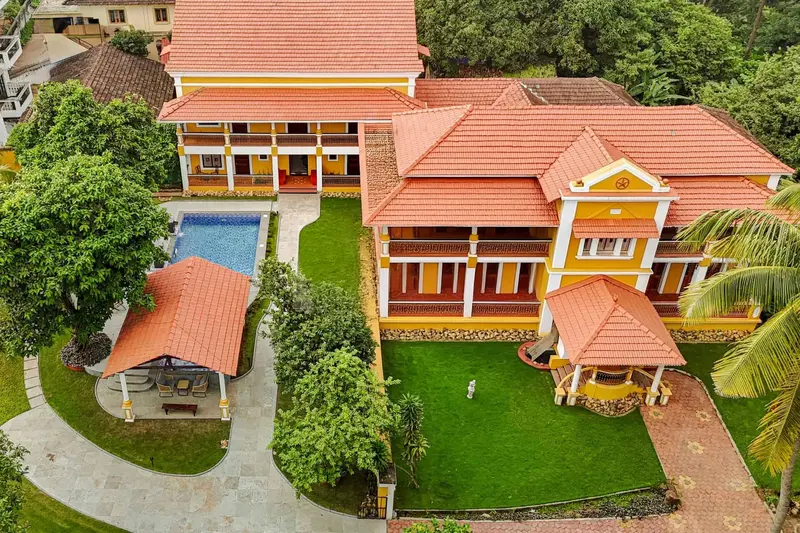
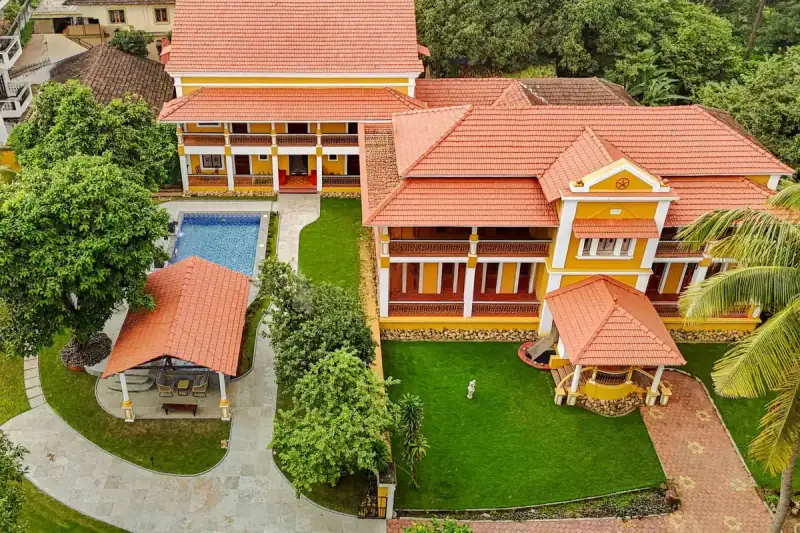
perf: lighter homepage hero and real slideshow photos
- Slides 2–3 pointed at image keys that don't exist, so both showed the
  generic 160 KB hero-goa.jpg. They now use The Plix Resort and Villa
  Madera lead photos with their 800px phone copies.
- Those slide photos are added only after the page's load event, so they
  no longer compete with the LCP image on slow connections.
- Phone hero (vivendachico1-mobile) re-encoded from the 1200px source:
  119 KB -> 91 KB, visually identical.
- Property cards serve the lead photo's 800px copy via srcset.

diff --git a/src/components/plix/hero-carousel.tsx b/src/components/plix/hero-carousel.tsx
@@ -3,15 +3,21 @@ import useEmblaCarousel from "embla-carousel-react";
 import { Link } from "@tanstack/react-router";
 import { ChevronLeft, ChevronRight } from "lucide-react";
 import { heroImage, resolveImages } from "@/lib/plix";
-import { HOME_HERO_SIZES } from "@/lib/hero-variants";
+import { HOME_HERO_SIZES, heroSrcSet } from "@/lib/hero-variants";
 
 const AUTOPLAY_INTERVAL_MS = 5000;
 
-const [plixResortImage] = resolveImages(["plixResort1"]);
-const [maderaImage] = resolveImages(["madera1"]);
+// Each property's lead photo (its first image_key), which also has an 800px
+// copy for phones. These used to point at keys that don't exist, so both
+// slides silently fell back to the generic hero-goa.jpg.
+const PLIX_RESORT_KEY = "plixresortnew17";
+const MADERA_KEY = "villamadera16";
+const [plixResortImage] = resolveImages([PLIX_RESORT_KEY]);
+const [maderaImage] = resolveImages([MADERA_KEY]);
 
 type Slide = {
   image: string;
+  srcSet?: string | undefined;
   alt: string;
   heading: string;
   subheading: string;
@@ -51,6 +57,7 @@ export function HeroCarousel({
     },
     {
       image: plixResortImage ?? heroImage,
+      srcSet: plixResortImage ? heroSrcSet(PLIX_RESORT_KEY, plixResortImage) : undefined,
       alt: "The Plix Resort - Morjim beachside pool and rooms",
       heading: "Serene Beachside Escapes in Morjim",
       subheading: "Wake up 100 meters from the ocean with private pool living.",
@@ -60,6 +67,7 @@ export function HeroCarousel({
     },
     {
       image: maderaImage ?? heroImage,
+      srcSet: maderaImage ? heroSrcSet(MADERA_KEY, maderaImage) : undefined,
       alt: "Villa Madera jungle-set villa with a shared pool in Anjuna",
       heading: "Hidden Jungle Luxury in Anjuna",
       subheading: "Tucked away privacy surrounded by lush coastal nature.",
@@ -71,6 +79,11 @@ export function HeroCarousel({
 
   const [emblaRef, emblaApi] = useEmblaCarousel({ loop: true, align: "start" });
   const [selectedIndex, setSelectedIndex] = useState(0);
+  // Slides 2–3 sit just off-screen, so the browser fetches their photos
+  // alongside slide 1's even with loading="lazy", and on a slow phone that
+  // steals bandwidth from the LCP image. They aren't visible until the first
+  // autoplay (5s), so their <img>s are only added once the page has loaded.
+  const [restImagesReady, setRestImagesReady] = useState(false);
   const hoverPausedRef = useRef(false);
   const dragPausedRef = useRef(false);
 
@@ -78,6 +91,16 @@ export function HeroCarousel({
     if (!emblaApi) return;
     setSelectedIndex(emblaApi.selectedScrollSnap());
   }, [emblaApi]);
+
+  useEffect(() => {
+    const ready = () => setRestImagesReady(true);
+    if (document.readyState === "complete") {
+      ready();
+      return;
+    }
+    window.addEventListener("load", ready, { once: true });
+    return () => window.removeEventListener("load", ready);
+  }, []);
 
   useEffect(() => {
     if (!emblaApi) return;
@@ -140,18 +163,20 @@ export function HeroCarousel({
             // <h2> is correct for them, not stripping the tag entirely.
             const HeadingTag = i === 0 ? "h1" : "h2";
             return (
-            <div key={slide.heading} className="relative min-w-0 shrink-0 grow-0 basis-full">
-              <img
-                src={slide.image}
-                srcSet={i === 0 ? slide1SrcSet : undefined}
-                sizes={i === 0 && slide1SrcSet ? HOME_HERO_SIZES : undefined}
-                alt={slide.alt}
-                width={1920}
-                height={1088}
-                loading={i === 0 ? "eager" : "lazy"}
-                fetchPriority={i === 0 ? "high" : "auto"}
-                className="absolute inset-0 size-full object-cover"
-              />
+            <div key={slide.heading} className="relative min-w-0 shrink-0 grow-0 basis-full bg-navy">
+              {(i === 0 || restImagesReady) && (
+                <img
+                  src={slide.image}
+                  srcSet={i === 0 ? slide1SrcSet : slide.srcSet}
+                  sizes={(i === 0 ? slide1SrcSet : slide.srcSet) ? HOME_HERO_SIZES : undefined}
+                  alt={slide.alt}
+                  width={1920}
+                  height={1088}
+                  loading={i === 0 ? "eager" : "lazy"}
+                  fetchPriority={i === 0 ? "high" : "auto"}
+                  className="absolute inset-0 size-full object-cover"
+                />
+              )}
               {/* Soft dark gradient vignette for high-contrast text readability */}
               <div className="absolute inset-0 bg-gradient-to-t from-black/70 via-black/30 to-transparent" />
               <div className="absolute inset-0 bg-gradient-to-b from-[#2a1810]/70 via-transparent to-[#1a0e05]/70" />

diff --git a/src/components/plix/property-card.tsx b/src/components/plix/property-card.tsx
@@ -1,9 +1,10 @@
 import { Link } from "@tanstack/react-router";
 import { Bath, BedDouble, ChevronLeft, ChevronRight, MapPin, Users, Waves } from "lucide-react";
 import { useState } from "react";
-import { formatINR, resolveImages, type Property } from "@/lib/plix";
+import { formatINR, resolveImageEntries, resolveImages, type Property } from "@/lib/plix";
 import { isMultiRoomProperty } from "@/lib/rates";
 import { SmartImage } from "@/components/plix/smart-image";
+import { heroSrcSet } from "@/lib/hero-variants";
 import { poolDisplayLabel } from "@/lib/seo";
 
 function propertyCardSubtitle(p: Property): string {
@@ -74,6 +75,9 @@ type PropertyCardProps = {
 
 export function PropertyCard({ property, titleOverride, searchRate, search }: PropertyCardProps) {
   const images = resolveImages(property.image_keys);
+  // The lead photo has an 800px copy (hero-variants), so phones and the
+  // 3-up grid don't download the 1200–1920px original for the first photo.
+  const leadKey = resolveImageEntries(property.image_keys)[0]?.key;
   const [index, setIndex] = useState(0);
   const go = (dir: number) => setIndex((i) => (i + dir + images.length) % images.length);
   const linkSearch = search ?? {};
@@ -95,6 +99,8 @@ export function PropertyCard({ property, titleOverride, searchRate, search }: Pr
           <SmartImage
             key={images[index]}
             src={images[index]}
+            srcSet={index === 0 && images[0] ? heroSrcSet(leadKey, images[0]) : undefined}
+            sizes="(max-width: 767px) 100vw, (max-width: 1023px) 50vw, 400px"
             alt={`${property.name} — ${property.bedrooms} bedroom luxury ${property.bedrooms >= 8 ? "bungalow" : "villa"} in ${property.location}, North Goa${index === 0 && poolAlt ? ` with ${poolAlt}` : ""}`}
             loading="lazy"
             width={1200}
